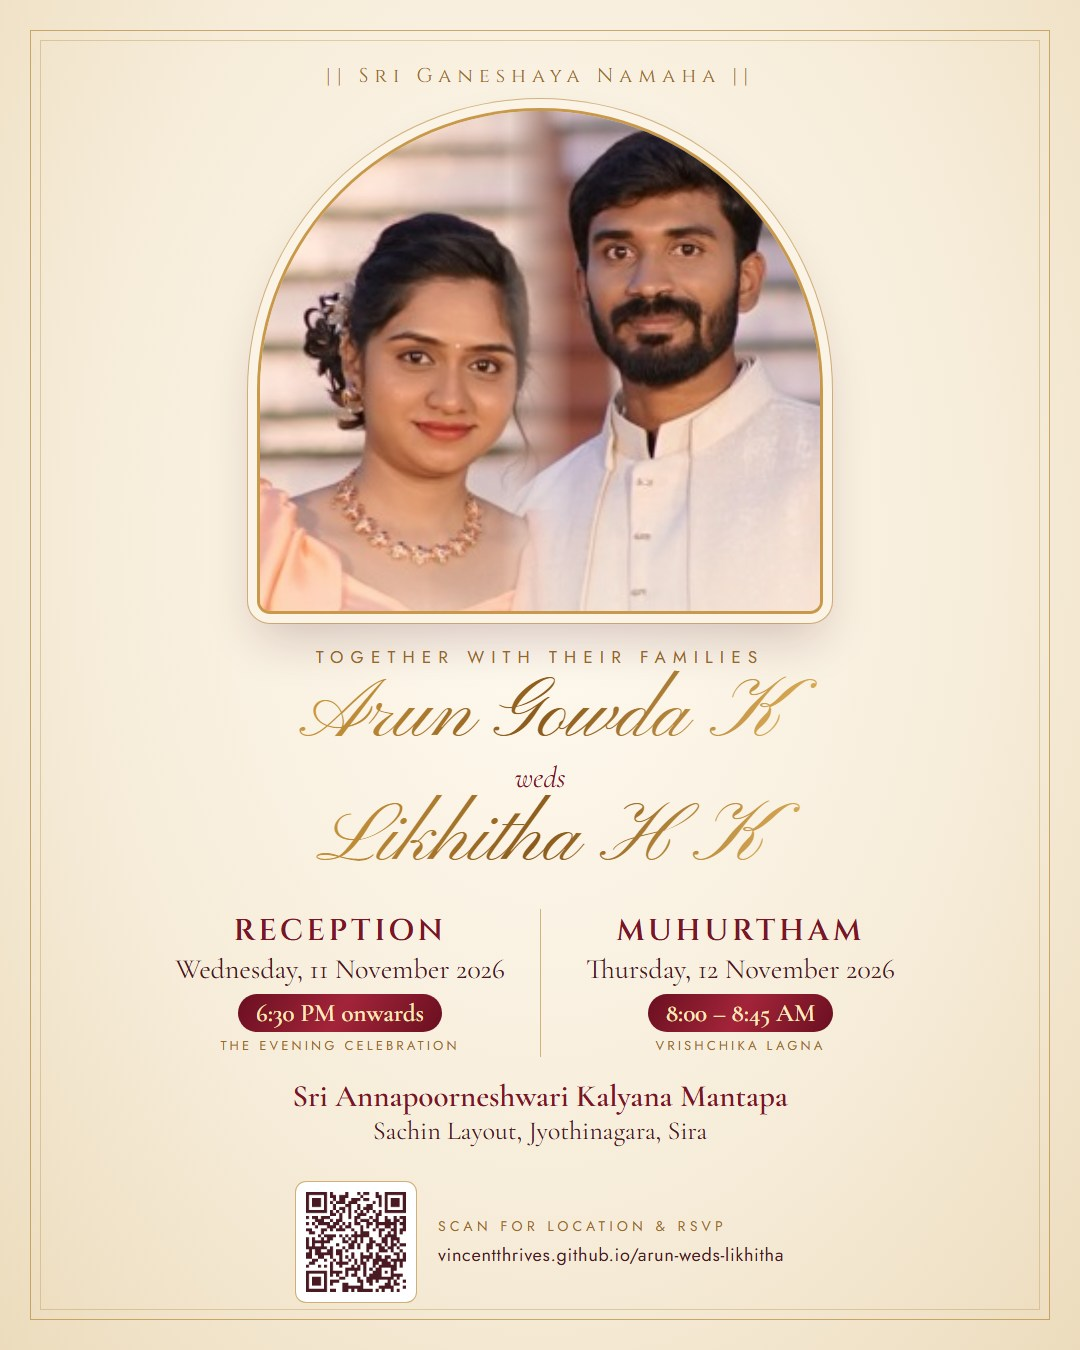
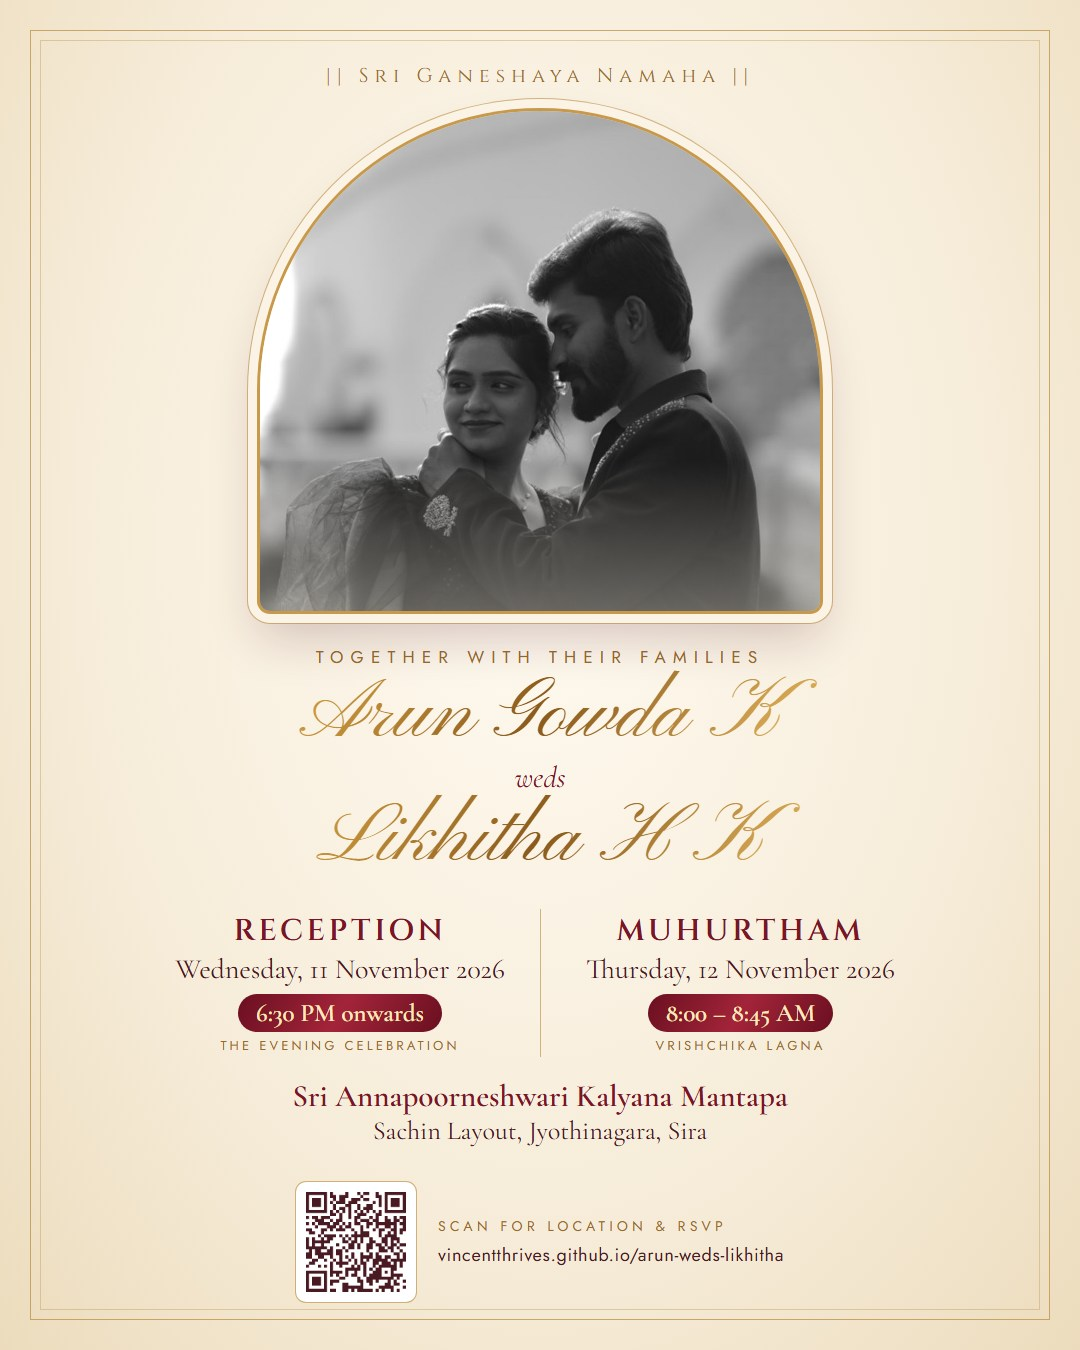
Use black & white couple photo on website hero and portrait invitations

Changed region(s): [[0.2139, 0.0622, 0.7639, 0.4667]]

diff --git a/share/cards.html b/share/cards.html
@@ -271,7 +271,7 @@
   .t11 .foot { bottom: 52px; }
 
   /* ========== 12. ROYAL MAROON WITH PORTRAIT COLLAGE ========== */
-  .t12 .photo { background: none; }
+  .t12 .photo { background: url("../assets/photos/couple-bw.jpg") 50% 22% / 1080px auto no-repeat; }
   .t12 .cl { position: absolute; left: 0; right: 0; top: 345px; height: 560px; display: flex; justify-content: center;
      -webkit-mask-image: linear-gradient(to bottom, transparent 0%, #000 22%, #000 62%, transparent 100%); mask-image: linear-gradient(to bottom, transparent 0%, #000 22%, #000 62%, transparent 100%); }
   .t12 .cl .half { flex: 0 0 560px; background-size: cover; background-repeat: no-repeat; }
@@ -288,6 +288,7 @@
   .d13 .om { font-family: "Cinzel"; font-size: 20px; letter-spacing: .3em; color: #9a6b28; }
   .d13 .arch { position: relative; width: 560px; height: 500px; margin: 22px auto 0; border-radius: 280px 280px 10px 10px; overflow: hidden;
      box-shadow: 0 0 0 3px #c8994a, 0 0 0 12px #fbf4e6, 0 0 0 13px rgba(184,137,59,.6), 0 26px 50px rgba(74,13,24,.22); }
+  .d13 .arch .ph { position: absolute; inset: 0; background: url("../assets/photos/couple-bw.jpg") 45% 33% / 900px auto no-repeat; }
   .d13 .arch .cl2 { position: absolute; inset: 0; display: flex; }
   .d13 .arch .half { flex: 0 0 310px; background-repeat: no-repeat; }
   .d13 .arch .bride { background: url("../assets/photos/bride.jpg") 71% 11% / auto 150% no-repeat;
@@ -330,6 +331,7 @@
   .d14 .medal .ring { position: absolute; left: -60px; top: -60px; width: 580px; height: 580px; color: #d4af6a; opacity: .55; }
   .d14 .medal .circ { position: absolute; inset: 0; border-radius: 50%; overflow: hidden;
      box-shadow: 0 0 0 4px #d4af6a, 0 0 0 12px rgba(7,13,32,.85), 0 0 0 13px rgba(212,175,106,.6), 0 30px 60px rgba(0,0,0,.5); }
+  .d14 .medal .ph { position: absolute; inset: 0; background: url("../assets/photos/couple-bw.jpg") 45% 36% / 760px auto no-repeat; }
   .d14 .medal .cl2 { position: absolute; inset: 0; display: flex; }
   .d14 .medal .half { flex: 0 0 260px; }
   .d14 .medal .bride { background: url("../assets/photos/bride.jpg") 67% 10% / auto 150% no-repeat;
@@ -552,11 +554,11 @@ const T = {
 
 11: () => T[1]().replace('class="card d1">', 'class="card d1 t11"><div class="photo"></div>'),
 
-12: () => T[1]().replace('class="card d1">', 'class="card d1 t11 t12"><div class="photo"><div class="cl"><div class="half bride"></div><div class="half groom"></div></div></div>'),
+12: () => T[1]().replace('class="card d1">', 'class="card d1 t11 t12"><div class="photo"></div>'),
 
 13: () => `<div class="card d13"><div class="abs frame"></div><div class="abs frame2"></div><div class="inner">
   <div class="om">|| Sri Ganeshaya Namaha ||</div>
-  <div class="arch"><div class="cl2"><div class="half bride"></div><div class="half groom"></div></div></div>
+  <div class="arch"><div class="ph"></div></div>
   <div class="eyebrow">Together with their families</div>
   <div class="nm gd">Arun Gowda K</div>
   <div class="weds">weds</div>
@@ -571,7 +573,7 @@ const T = {
 14: () => `<div class="card d14"><div class="stars"></div><div class="abs frame"></div><div class="abs frame2"></div><div class="inner">
   <div class="om">|| Sri Ganeshaya Namaha ||</div>
   <div class="eyebrow">Together with their families</div>
-  <div class="medal">${mandala([[24, 9, 22, 262, 1], [48, 4, 12, 290, .8]]).replace('class="abs mandala"', 'class="ring"').replace('viewBox="-200 -200 400 400"', 'viewBox="-310 -310 620 620"')}<div class="circ"><div class="cl2"><div class="half bride"></div><div class="half groom"></div></div></div></div>
+  <div class="medal">${mandala([[24, 9, 22, 262, 1], [48, 4, 12, 290, .8]]).replace('class="abs mandala"', 'class="ring"').replace('viewBox="-200 -200 400 400"', 'viewBox="-310 -310 620 620"')}<div class="circ"><div class="ph"></div></div></div>
   <div class="names"><div class="nm gold">Arun Gowda K</div>
   <div class="weds">weds</div>
   <div class="nm gold">Likhitha H K</div></div>

diff --git a/styles.css b/styles.css
@@ -409,3 +409,7 @@ textarea { resize: vertical; }
   .hero.collage-mode .half:first-child { -webkit-mask-image: linear-gradient(to right, transparent 0%, #000 16%, #000 78%, transparent 100%); mask-image: linear-gradient(to right, transparent 0%, #000 16%, #000 78%, transparent 100%); }
   .hero.collage-mode .half:last-child { margin-left: -90px; flex-basis: 420px; -webkit-mask-image: linear-gradient(to right, transparent 0%, #000 22%, #000 84%, transparent 100%); mask-image: linear-gradient(to right, transparent 0%, #000 22%, #000 84%, transparent 100%); }
 }
+
+/* ---- hero: black & white couple photo (portrait) ---- */
+.hero.photo:not(.collage-mode) .hero-bg { background-size: 165% auto; background-position: 45% 38%; }
+@media (min-width: 761px) { .hero.photo:not(.collage-mode) .hero-bg { background-size: cover; background-position: 50% 37%; } }

diff --git a/index.html b/index.html
@@ -20,7 +20,7 @@
   <link rel="preconnect" href="https://fonts.googleapis.com" />
   <link rel="preconnect" href="https://fonts.gstatic.com" crossorigin />
   <link href="https://fonts.googleapis.com/css2?family=Cormorant+Garamond:ital,wght@0,400;0,500;0,600;1,400;1,500&family=Pinyon+Script&family=Jost:wght@300;400;500&display=swap" rel="stylesheet" />
-  <link rel="stylesheet" href="styles.css?v=202610310021" />
+  <link rel="stylesheet" href="styles.css?v=202610311122" />
 </head>
 <body class="locked">
 
@@ -237,7 +237,7 @@
     <button class="lb-next" aria-label="Next">&#8250;</button>
   </div>
 
-  <script src="config.js?v=202610310021"></script>
-  <script src="app.js?v=202610310021"></script>
+  <script src="config.js?v=202610311122"></script>
+  <script src="app.js?v=202610311122"></script>
 </body>
 </html>

diff --git a/config.js b/config.js
@@ -80,8 +80,8 @@ window.WEDDING = {
   rsvpWhatsApp: "917899250602",
   rsvpBy: "",
 
-  heroImage: "",                 // single wide photo (used when heroCollage is empty), e.g. "assets/photos/couple-steps.jpg"
-  heroCollage: ["assets/photos/bride.jpg", "assets/photos/groom.jpg"],   // portraits merged side by side
+  heroImage: "assets/photos/couple-bw.jpg",                 // single wide photo (used when heroCollage is empty), e.g. "assets/photos/couple-steps.jpg"
+  heroCollage: [],   // portraits merged side by side
   gallery: [],
   video: { youtubeId: "", file: "", poster: "" },
   music: "",
